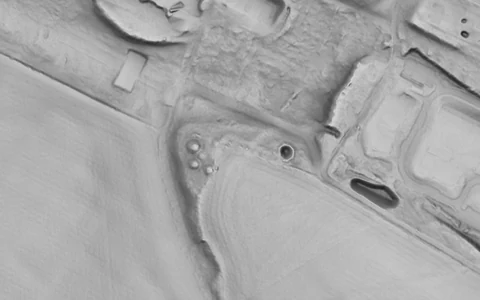
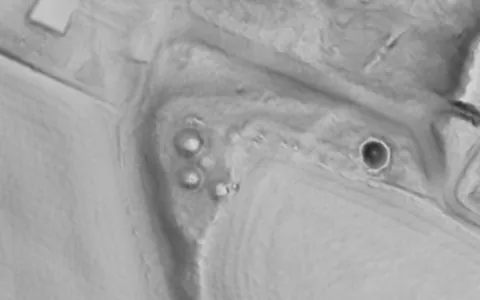
Clear the ground when the guide shows a place, and fix its pictures
Records, findings and coverage are hidden, with a toast, when an example
opens on the map. The dew pond is shown as the earthwork it is. Tramlines
replace plough marks with a crop where they stop at the field edge, the
reservoir is cropped closer, and stretched pictures say so. Buttons say what
they show, and the ladder carries no weights /meta doesn't send.

Co-developed-by: Claude Code v2.1.322 (claude-opus-5-5)

diff --git a/frontend/src/features/guide/places.ts b/frontend/src/features/guide/places.ts
@@ -44,6 +44,8 @@ export interface Picture {
   src: string;
   /** What the picture shows, for anyone who can't see it. */
   alt: string;
+  /** True when its contrast was raised, so it shows more than the map does, which the card says. */
+  enhanced?: boolean;
 }
 
 /** The two sentences on what a terrain view is good for, and a picture of it. */
@@ -168,6 +170,11 @@ export interface Example {
 export interface Pair {
   id: string;
   real: Example;
+  /**
+   * What the real one is mistaken for: usually something modern, natural or
+   * in the data, named by an explanation. One with a feature class instead
+   * is another kind of earthwork that is easily confused with the first.
+   */
   lookalike: Example;
   /** How to tell them apart, in a sentence or two. */
   tell: string;
@@ -205,7 +212,7 @@ export const PAIRS: Pair[] = [
     lookalike: {
       title: "A small reservoir",
       explanation: "modern",
-      body: "South of Bulford Camp a small round reservoir, with a sharp rim and a hollow middle, sits beside three bowl barrows. The barrows are the soft domes to its left.",
+      body: "South of Bulford Camp a small round reservoir, with a sharp rim and a hollow middle, sits beside four of a group of five bowl barrows. The barrows are the soft domes to its left.",
       place: {
         name: "South of Bulford Camp, near Stonehenge",
         lon: -1.7327,
@@ -215,7 +222,7 @@ export const PAIRS: Pair[] = [
       },
       picture: {
         src: reservoirPicture,
-        alt: "Three small round mounds and, a little to the right, a ring with a hollow centre, at the edge of a field beside buildings and yards.",
+        alt: "Four small round mounds in a cluster and, to their right, a sharp ring with a dark hollow centre, on a strip of rough ground between fields.",
       },
       records: [aim("Reservoir"), nhle("A group of five bowl barrows south of Bulford Camp", "1009576")],
       judgement: false,
@@ -240,18 +247,19 @@ export const PAIRS: Pair[] = [
       judgement: false,
     },
     lookalike: {
-      title: "Plough marks",
+      title: "Tramlines",
       explanation: "modern",
-      body: "Fine, evenly spaced lines that fill one modern field, left by modern ploughing and drilling. The curving bank above them is a real earthwork: Historic England's aerial mapping records it as a strip lynchet of a medieval field system.",
-      place: { name: "Below Milk Hill, Vale of Pewsey", lon: -1.85715, lat: 51.36959, layer: "local_relief", zoom: 16 },
+      body: "Straight, evenly spaced lines that fill one modern field and stop at its edge. They are tramlines: the wheel marks a tractor leaves every few tens of metres as it sprays and spreads.",
+      place: { name: "Below Milk Hill, Vale of Pewsey", lon: -1.85412, lat: 51.36834, layer: "local_relief", zoom: 16 },
       picture: {
         src: ploughPicture,
-        alt: "A flat field covered in fine parallel lines running from side to side, with a curving bank across the top.",
+        alt: "A field crossed from side to side by straight parallel lines, all ending at a track and bank that runs down the right of the picture.",
+        enhanced: true,
       },
       records: [],
       judgement: true,
     },
-    tell: "Old field banks are uneven, meet at odd angles and ignore today's hedges. Plough lines are dead straight, closely spaced and end exactly at the edge of a modern field.",
+    tell: "Old field banks are uneven, meet at odd angles and ignore today's hedges. Tramlines and plough lines are dead straight, evenly spaced, run one way across a whole field and end exactly at its modern edge.",
   },
   {
     id: "hollow_way",
@@ -300,7 +308,8 @@ export const PAIRS: Pair[] = [
     },
     lookalike: {
       title: "A dew pond",
-      body: "A dew pond is a hollow lined to hold rainwater for stock, ringed by the bank of the soil dug out of it. This one is the small square below the enclosure.",
+      featureClass: "pond",
+      body: "A dew pond is a hollow lined to hold rainwater for stock, ringed by the bank of the soil dug out of it. It is an earthwork too: this one, the small square below the enclosure, is scheduled with it.",
       place: {
         name: "North of Barbury Castle, Marlborough Downs",
         lon: -1.78619,
@@ -327,6 +336,7 @@ export const PAIRS: Pair[] = [
       picture: {
         src: ridgePicture,
         alt: "Broad, gently curving parallel ridges in one part of a field, cut off by a later field edge.",
+        enhanced: true,
       },
       records: [aim("Ridge and furrow")],
       judgement: false,

diff --git a/frontend/src/features/guide/GuidePanel.tsx b/frontend/src/features/guide/GuidePanel.tsx
@@ -6,6 +6,7 @@ import { Attribution } from "../../map/attribution.js";
 import { Button } from "../../ui/Button.js";
 import { scrollBehaviour } from "../../ui/motion.js";
 import { TierBadge } from "../../ui/TierBadge.js";
+import { takesUnder18s } from "../about/facts.js";
 import { useDocumentTitle } from "../placeholders.js";
 import { PanelFrame } from "../shell/PanelFrame.js";
 import { usePanelEnvironment } from "../shell/panelContext.js";
@@ -59,7 +60,11 @@ function Section({ id, title, children }: { id: SectionId; title: string; childr
   );
 }
 
-/** "Show on the map": opens the place in its view, and calls a slow move off if the page goes first. */
+/**
+ * "Show tramlines on the map": opens the place in its view, and calls a
+ * slow move off if the page goes first. The words name the example, so the
+ * button's name is the words it shows (WCAG 2.5.3).
+ */
 function ShowOnMap({ meta, place, label }: { meta: Meta; place: MapPlace; label: string }) {
   const environment = usePanelEnvironment();
   const cancel = useRef<(() => void) | null>(null);
@@ -69,13 +74,12 @@ function ShowOnMap({ meta, place, label }: { meta: Meta; place: MapPlace; label:
       size="sm"
       variant="ghost"
       icon={<MapPin size={16} aria-hidden />}
-      aria-label={label}
       onClick={() => {
         cancel.current?.();
         cancel.current = showPlace(meta, place, environment);
       }}
     >
-      Show on the map
+      {label}
     </Button>
   );
 }
@@ -190,6 +194,9 @@ function ExampleCard({ meta, example, side }: { meta: Meta; example: Example; si
       ) : null}
       <p>{example.body}</p>
       {place ? <p className="fc-guide__muted">{place.name}.</p> : null}
+      {example.picture?.enhanced ? (
+        <p className="fc-guide__muted">The picture's contrast has been raised, so it shows more than the map does.</p>
+      ) : null}
       <Records example={example} />
       {place ? <ShowOnMap meta={meta} place={place} label={`Show ${example.title.toLowerCase()} on the map`} /> : null}
     </div>
@@ -204,7 +211,7 @@ function PairItem({ meta, pair }: { meta: Meta; pair: Pair }) {
         {pair.real.title} or {lowerFirst(pair.lookalike.title)}?
       </h4>
       <ExampleCard meta={meta} example={pair.real} side="real" />
-      <ExampleCard meta={meta} example={pair.lookalike} side="lookalike" />
+      <ExampleCard meta={meta} example={pair.lookalike} side={pair.lookalike.featureClass ? "real" : "lookalike"} />
       <p className="fc-guide__tell">
         <strong>Telling them apart. </strong>
         {pair.tell}
@@ -218,8 +225,8 @@ function Lookalikes({ meta }: { meta: Meta }) {
     <>
       <p>
         Most of what looks like an earthwork in LIDAR isn't one. Here are real earthworks beside the modern or natural
-        things most often mistaken for them. Marking a doubtful feature is still useful, because other people's second
-        looks are how doubtful things get checked.
+        things most often mistaken for them, and two kinds of earthwork that are easily confused. Marking a doubtful
+        feature is still useful, because other people's second looks are how doubtful things get checked.
       </p>
       <ul className="fc-guide__pairs">
         {PAIRS.map((pair) => (
@@ -251,9 +258,9 @@ function Ladder({ meta }: { meta: Meta }) {
         ))}
       </ol>
       <p>
-        Two rules keep the ladder honest. Agreement is weighted, so a trusted regular counts for one and a half members
-        and a recognised archaeologist counts for three. And the evidence has to be independent: a finder can't
-        corroborate their own finding by attaching five screenshots.
+        Two rules keep the ladder honest. Agreement is weighted, so a trusted regular or a recognised archaeologist
+        counts for more than one member. And the evidence has to be independent: a finder can't corroborate their own
+        finding by attaching five screenshots.
       </p>
       <p>
         A finding can also leave the ladder. If most people can't see it, or agree it's a modern drain, a golf bunker or
@@ -331,7 +338,9 @@ function Ground({ meta }: { meta: Meta }) {
           </details>
         );
       })}
-      <p className="fc-guide__muted">For members who are 16 or 17 it adds: “{meta.notices.field_visit_16_17}”</p>
+      {takesUnder18s(meta) ? (
+        <p className="fc-guide__muted">For members who are 16 or 17 it adds: “{meta.notices.field_visit_16_17}”</p>
+      ) : null}
     </>
   );
 }

diff --git a/frontend/src/features/guide/GuidePanel.test.tsx b/frontend/src/features/guide/GuidePanel.test.tsx
@@ -5,6 +5,7 @@ import { useMapStore } from "../../map/store.js";
 import { useFakeEventSource } from "../../test/fakeEventSource.js";
 import { metaFixture } from "../../test/fixtures/meta.js";
 import { mapReady, renderShell, setUpShellTests, usePhoneLayout } from "../../test/shellHarness.js";
+import { useToastStore } from "../../ui/toastStore.js";
 import { PAIRS } from "./places.js";
 
 vi.mock("maplibre-gl", async () => {
@@ -45,6 +46,14 @@ describe("the guide", () => {
     expect(panel.getAllByText("Round barrow or mound").length).toBeGreaterThan(0);
     expect(panel.getAllByText("Modern feature").length).toBeGreaterThan(0);
     expect(panel.getAllByText("Data artefact").length).toBeGreaterThan(0);
+    // The dew pond is scheduled with the enclosure: an earthwork too, never shown as something not to mark.
+    const pond = panel.getByRole("heading", { name: "A dew pond" }).closest(".fc-guide__card") as HTMLElement;
+    expect(within(pond).getByText("Earthwork")).toBeInTheDocument();
+    expect(within(pond).getByText("Pond or water management")).toBeInTheDocument();
+    expect(within(pond).queryByText("Look-alike")).toBeNull();
+    // A picture whose contrast was raised says so.
+    const enhanced = PAIRS.flatMap((pair) => [pair.real, pair.lookalike]).filter((e) => e.picture?.enhanced);
+    expect(panel.getAllByText(/contrast has been raised/)).toHaveLength(enhanced.length);
     const judgements = PAIRS.flatMap((pair) => [pair.real, pair.lookalike]).filter((example) => example.judgement);
     expect(panel.getAllByText(/This one is our own judgement/)).toHaveLength(judgements.length);
     const entry = panel.getByRole("link", { name: /entry 1008099/ });
@@ -55,8 +64,18 @@ describe("the guide", () => {
   it("opens an example on the map in its view", async () => {
     const user = userEvent.setup();
     const panel = await openGuide();
-    await user.click(panel.getByRole("button", { name: "Show plough marks on the map" }));
+    // The button's name is the words it shows, so a person using voice control can say them.
+    const show = panel.getByRole("button", { name: "Show tramlines on the map" });
+    expect(show).toHaveTextContent("Show tramlines on the map");
+    expect(useMapStore.getState().overlays.records?.visible).toBe(true);
+    await user.click(show);
     await waitFor(() => expect(useMapStore.getState().mainView).toBe("local_relief"));
+    // The record squares and finding markers would sit on the feature, so they are turned off, and the toast says so.
+    expect(useMapStore.getState().overlays.records?.visible).toBe(false);
+    expect(useMapStore.getState().overlays.findings?.visible).toBe(false);
+    expect(useToastStore.getState().toasts.map((toast) => toast.message)).toContain(
+      "Heritage records and findings are hidden so the ground shows. Turn them on again in Layers.",
+    );
     await waitFor(() => expect(useMapStore.getState().cameraRequest).toBeGreaterThan(0));
     expect(useMapStore.getState().camera.zoom).toBeGreaterThan(0);
   });
@@ -66,6 +85,12 @@ describe("the guide", () => {
     const panel = await openGuide();
     await user.click(panel.getByRole("button", { name: "Show Raking light on the map" }));
     await waitFor(() => expect(useMapStore.getState().mainView).toBe("raking"));
+  });
+
+  it("writes no weights into the ladder, since /meta doesn't send them", async () => {
+    const panel = await openGuide();
+    expect(panel.getByText(/counts for more than one member/)).toBeInTheDocument();
+    expect(panel.queryByText(/one and a half|counts for three/)).toBeNull();
   });
 
   it("explains the ladder in /meta's words, and the rules on the ground for each nation", async () => {

diff --git a/frontend/src/features/guide/showPlace.ts b/frontend/src/features/guide/showPlace.ts
@@ -1,12 +1,44 @@
 /**
  * Opening a place from a reference page on the map, in the view the page
  * talks about. On a phone the sheet drops to its peek stop first, so the
- * place isn't hidden behind the page that sent someone there.
+ * place isn't hidden behind the page that sent someone there. The marks
+ * Field Club draws over the ground (heritage records, findings, scan
+ * coverage) are turned off, because they would sit on the very feature the
+ * page asks someone to look at, and a toast says how to turn them back on.
  */
 
-import type { Meta } from "../../api/meta.js";
+import type { Meta, Overlay } from "../../api/meta.js";
+import { useMapStore } from "../../map/store.js";
+import { toast } from "../../ui/toastStore.js";
 import { seeViewAt, whenStageSettled } from "../finding/mapView.js";
 import type { PanelEnvironment } from "../shell/panelContext.js";
+
+/** Overlays drawn on top of the ground that hide what a guide example shows. */
+const COVERS_THE_GROUND = new Set<Overlay["type"]>(["records", "findings", "coverage"]);
+
+/** "A", "A and B", "A, B and C", each but the first in lower case. */
+function andList(items: readonly string[]): string {
+  const words = items.map((item, index) => (index === 0 ? item : item.charAt(0).toLowerCase() + item.slice(1)));
+  if (words.length <= 1) return words.join("");
+  return `${words.slice(0, -1).join(", ")} and ${words.at(-1)}`;
+}
+
+/** Turn off the overlays that would cover the ground, and say so. Returns the ids turned off. */
+export function clearTheGround(meta: Meta): string[] {
+  const store = useMapStore.getState();
+  const covering = meta.layers.overlays.filter(
+    (overlay) => COVERS_THE_GROUND.has(overlay.type) && store.overlays[overlay.id]?.visible,
+  );
+  for (const overlay of covering) store.setOverlayVisible(overlay.id, false);
+  if (covering.length > 0) {
+    const titles = andList(covering.map((overlay) => overlay.title));
+    const one = covering.length === 1;
+    toast(
+      `${titles} ${one ? "is" : "are"} hidden so the ground shows. Turn ${one ? "it" : "them"} on again in Layers.`,
+    );
+  }
+  return covering.map((overlay) => overlay.id);
+}
 
 export interface MapPlace {
   lon: number;
@@ -24,6 +56,7 @@ export function showPlace(
 ): () => void {
   if (environment.isPhone && environment.stop !== "peek") environment.setStop("peek");
   return whenStageSettled(() => {
+    clearTheGround(meta);
     seeViewAt(meta, [place.lon, place.lat], { layer: place.layer ?? null, zoom: place.zoom, bearing: 0, pitch: 0 });
   });
 }

diff --git a/frontend/src/features/guide/places.test.ts b/frontend/src/features/guide/places.test.ts
@@ -50,9 +50,13 @@ describe("the guide's catalogue", () => {
   it("names every real example by a class in /meta, and every modern or data look-alike by an explanation", () => {
     for (const pair of PAIRS) {
       expect(featureClassLabel(metaFixture, pair.real.featureClass), pair.id).not.toBeNull();
-      if (pair.lookalike.explanation) {
-        expect(explanationLabel(metaFixture, pair.lookalike.explanation), pair.id).not.toBeNull();
-      }
+      const { lookalike } = pair;
+      // Something mistaken for an earthwork is either named for what it is instead, or is itself an earthwork.
+      // One that is neither would be shown as a look-alike with nothing to say what it is.
+      expect(Boolean(lookalike.explanation) !== Boolean(lookalike.featureClass), pair.id).toBe(true);
+      if (lookalike.explanation) expect(explanationLabel(metaFixture, lookalike.explanation), pair.id).not.toBeNull();
+      if (lookalike.featureClass)
+        expect(featureClassLabel(metaFixture, lookalike.featureClass), pair.id).not.toBeNull();
     }
     expect(featureClassLabel(metaFixture, "no_such_class")).toBeNull();
     expect(explanationLabel(metaFixture, undefined)).toBeNull();

diff --git a/frontend/e2e/reference.spec.ts b/frontend/e2e/reference.spec.ts
@@ -40,12 +40,15 @@ test("the guide opens from the rail, shows its pictures and sends each example t
   await expect(panel.getByRole("heading", { name: "The views", level: 3 })).toBeVisible();
   await picturesLoaded(panel);
 
-  const show = panel.getByRole("button", { name: "Show plough marks on the map" });
+  const show = panel.getByRole("button", { name: "Show tramlines on the map" });
   await show.scrollIntoViewIfNeeded();
   await show.click();
   // The map goes to the place in the view the example uses, and the address says so.
   await expect(page).toHaveURL(/v=local_relief/);
   await expect(page).toHaveURL(/m=16\/51\.36\d*\/-1\.85\d*/);
+  // Record squares and finding markers would sit on the feature, so they are hidden, and the address says so.
+  await expect(page).toHaveURL(/records:\d+:h/);
+  await expect(page).toHaveURL(/findings:\d+:h/);
   if (isPhone(page)) await expect(page.locator(".fc-shell")).toHaveAttribute("data-sheet", "peek");
 });
 

diff --git a/frontend/e2e/shots/reference.spec.ts b/frontend/e2e/shots/reference.spec.ts
@@ -77,7 +77,7 @@ test("guide", async ({ page }) => {
   await panel.getByText("Northern Ireland", { exact: true }).click();
   await shoot(page, "guide-ground-ni");
   await scrollTo(panel.getByRole("heading", { name: "Real or not?", level: 3 }));
-  await panel.getByRole("button", { name: "Show plough marks on the map" }).click();
+  await panel.getByRole("button", { name: "Show tramlines on the map" }).click();
   await page.waitForTimeout(1500);
   await shoot(page, "guide-shown-on-map");
 });

diff --git a/frontend/src/features/guide/pictures/README.md b/frontend/src/features/guide/pictures/README.md
@@ -1,25 +1,25 @@
 # The guide's pictures
 
-Each picture is 480 by 300 pixels, made on 2026-11-11 from Field Club's own terrain tiles of the Environment Agency's 2022 LIDAR composite (Open Government Licence v3.0), served by the backend from the local elevation mirror. A crop of 640 by 400 tile pixels, centred on the point below, was scaled to three quarters. The dew pond is a 320 by 200 crop at one and a half times. The raking-light picture is a crop of the map in the browser, as the app draws it from the elevation tiles, with the OpenStreetMap overlay on.
+Each picture is 480 by 300 pixels, made on 2026-11-11 from Field Club's own terrain tiles of the Environment Agency's 2022 LIDAR composite (Open Government Licence v3.0), served by the backend from the local elevation mirror. A crop of 640 by 400 tile pixels, centred on the point below, was scaled to three quarters. The dew pond and the reservoir are 320 by 200 crops at one and a half times. The tramlines and the ridge and furrow had their contrast stretched (Pillow's `ImageOps.autocontrast`, cutting 1 and 2 per cent of the darkest and lightest pixels), and their cards say so. The raking-light picture is a crop of the map in the browser, as the app draws it from the elevation tiles, with the OpenStreetMap overlay on.
 
 What each real example is comes from the heritage records in the development index: the National Heritage List for England (NHLE) and Historic England's Aerial Investigation and Mapping (AIM). A look-alike no record names is marked as our own judgement in `places.ts` and on the page.
 
-| File                            | Place                           | Centre (lon, lat)  | View                        | Zoom | What it shows, and the record                               |
-| ------------------------------- | ------------------------------- | ------------------ | --------------------------- | ---- | ----------------------------------------------------------- |
-| `view-composite.webp`           | Fyfield Down, near Avebury      | -1.8105, 51.4360   | composite                   | 15   | Field system and hollow ways. NHLE 1019190                  |
-| `view-local-relief.webp`        | The same                        | the same           | local_relief                | 15   | The same ground                                             |
-| `view-sky-view.webp`            | The same                        | the same           | sky_view                    | 15   | The same ground                                             |
-| `view-multi-shade.webp`         | The same                        | the same           | multi_shade                 | 15   | The same ground                                             |
-| `view-slope.webp`               | The same                        | the same           | slope                       | 15   | The same ground                                             |
-| `view-openness.webp`            | The same                        | the same           | openness                    | 15   | The same ground                                             |
-| `view-raking.webp`              | Silbury Hill                    | -1.8574, 51.4157   | raking (sun 315°, 25° high) | 16   | Silbury Hill                                                |
-| `pair-barrow-overton.webp`      | Overton Hill                    | -1.83245, 51.42147 | composite                   | 16   | Bell barrow, NHLE 1008099                                   |
-| `pair-reservoir-bulford.webp`   | South of Bulford Camp           | -1.7327, 51.1858   | composite                   | 16   | AIM "Reservoir" beside bowl barrows of NHLE 1009576         |
-| `pair-fields-fyfield.webp`      | Fyfield Down                    | -1.8150, 51.4330   | composite                   | 16   | Field system and strip lynchets: NHLE 1019190, AIM          |
-| `pair-plough-milkhill.webp`     | Below Milk Hill, Vale of Pewsey | -1.85715, 51.36959 | local_relief                | 16   | Plough lines: our judgement. Bank at top: AIM strip lynchet |
-| `pair-hollowway-fyfield.webp`   | Fyfield Down                    | -1.8122, 51.4371   | sky_view                    | 16   | AIM "Trackway"                                              |
-| `pair-enclosure-barbury.webp`   | North of Barbury Castle         | -1.78705, 51.48975 | composite                   | 16   | Enclosure, NHLE 1016357                                     |
-| `pair-dewpond-barbury.webp`     | North of Barbury Castle         | -1.78619, 51.48922 | composite                   | 16   | Dew pond, NHLE 1016357                                      |
-| `pair-ridge-furrow-pewsey.webp` | Pewsey Down                     | -1.82729, 51.37596 | local_relief                | 16   | AIM "Ridge and furrow"                                      |
+| File                            | Place                           | Centre (lon, lat)  | View                        | Zoom | What it shows, and the record                            |
+| ------------------------------- | ------------------------------- | ------------------ | --------------------------- | ---- | -------------------------------------------------------- |
+| `view-composite.webp`           | Fyfield Down, near Avebury      | -1.8105, 51.4360   | composite                   | 15   | Field system and hollow ways. NHLE 1019190               |
+| `view-local-relief.webp`        | The same                        | the same           | local_relief                | 15   | The same ground                                          |
+| `view-sky-view.webp`            | The same                        | the same           | sky_view                    | 15   | The same ground                                          |
+| `view-multi-shade.webp`         | The same                        | the same           | multi_shade                 | 15   | The same ground                                          |
+| `view-slope.webp`               | The same                        | the same           | slope                       | 15   | The same ground                                          |
+| `view-openness.webp`            | The same                        | the same           | openness                    | 15   | The same ground                                          |
+| `view-raking.webp`              | Silbury Hill                    | -1.8574, 51.4157   | raking (sun 315°, 25° high) | 16   | Silbury Hill                                             |
+| `pair-barrow-overton.webp`      | Overton Hill                    | -1.83245, 51.42147 | composite                   | 16   | Bell barrow, NHLE 1008099                                |
+| `pair-reservoir-bulford.webp`   | South of Bulford Camp           | -1.7330, 51.1858   | composite                   | 16   | AIM "Reservoir" beside four bowl barrows of NHLE 1009576 |
+| `pair-fields-fyfield.webp`      | Fyfield Down                    | -1.8150, 51.4330   | composite                   | 16   | Field system and strip lynchets: NHLE 1019190, AIM       |
+| `pair-plough-milkhill.webp`     | Below Milk Hill, Vale of Pewsey | -1.85412, 51.36834 | local_relief                | 16   | Tramlines ending at the field edge: our judgement        |
+| `pair-hollowway-fyfield.webp`   | Fyfield Down                    | -1.8122, 51.4371   | sky_view                    | 16   | AIM "Trackway"                                           |
+| `pair-enclosure-barbury.webp`   | North of Barbury Castle         | -1.78705, 51.48975 | composite                   | 16   | Enclosure, NHLE 1016357                                  |
+| `pair-dewpond-barbury.webp`     | North of Barbury Castle         | -1.78619, 51.48922 | composite                   | 16   | Dew pond, NHLE 1016357                                   |
+| `pair-ridge-furrow-pewsey.webp` | Pewsey Down                     | -1.82729, 51.37596 | local_relief                | 16   | AIM "Ridge and furrow"                                   |
 
 No clear pipeline or data stripe was found in the mirrored tiles, so those two look-alikes have no picture.
